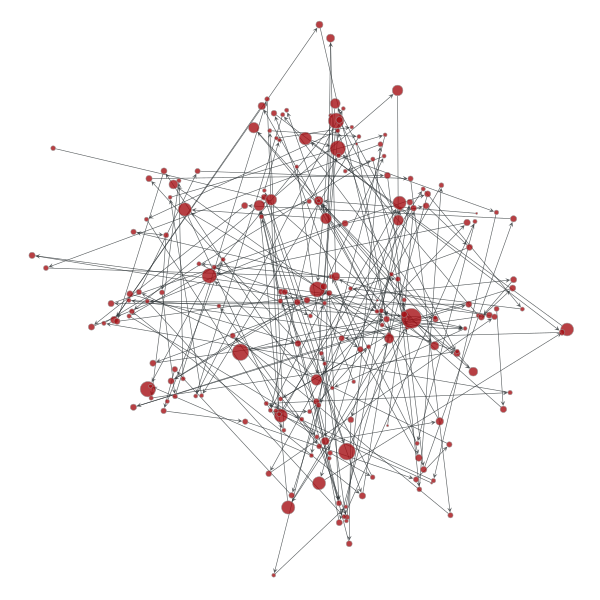
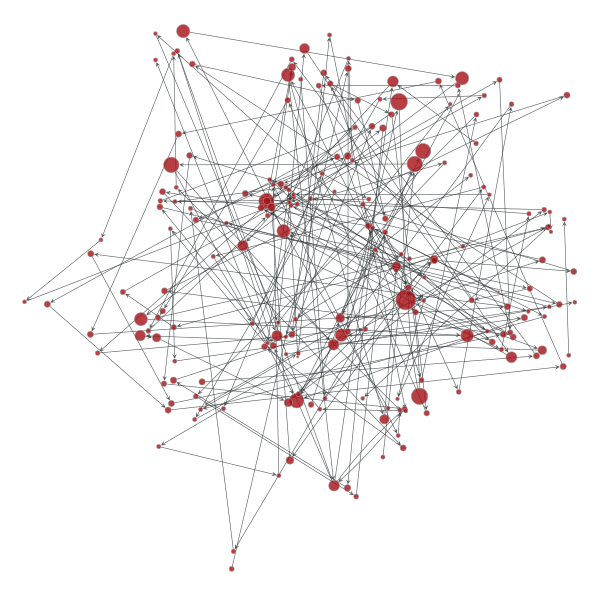
works now with wallet ids as node ids

diff --git a/Projekt/app/analysis.py b/Projekt/app/analysis.py
@@ -160,14 +160,39 @@ def get_user_incomes():
     res = cur.fetchall()
     cur.close()
 
-    income = {}
-    for row in res:
-        income[int(row[1])] = int(row[0])
-
-    return income
+    return res
 
 
-def get_transactions():
+def get_wallet_incomes():
+    """
+    Calculates sum of incoming money to users (wallets according to users table).
+
+    Returns
+    -------
+
+    """
+    cur = db.cursor()
+
+    query = """
+        select sum(ohne.satoshis) as satoshis, ohne.wallet as wallet
+        from (
+            select satoshis, wallet
+            from txoutput
+            except 
+            select o.satoshis, o.wallet
+            from txoutput o, txinput i
+            where (o.txid = i.txid and o.wallet = i.wallet)
+        ) ohne group by wallet order by satoshis desc;
+    """
+
+    cur.execute(query)
+    res = cur.fetchall()
+    cur.close()
+
+    return res
+
+
+def get_user_transactions():
     """
     Fetches transactions between users.
 
@@ -207,6 +232,43 @@ def get_transactions():
     return res
 
 
+def get_wallet_transactions():
+    """
+    Fetches transactions between users.
+
+    Returns
+    -------
+    res: array of tuples
+        Query result. It cointains
+            userid (from)
+            userid (to)
+            satoshis transferred
+            timestamp
+            transaction_id
+    """
+    cur = db.cursor()
+
+    query = """
+    select distinct i.wallet, outputs.wallet, outputs.satoshis, outputs.timest, outputs.txid
+    from (
+            select *
+            from txoutput
+            except 
+            select o.*
+            from txoutput o, txinput i
+            where (o.txid = i.txid and o.wallet = i.wallet)
+        ) outputs, txinput i
+    where i.txid = outputs.txid and i.wallet <> outputs.wallet;
+    """
+
+    cur.execute(query)
+    res = cur.fetchall()
+    cur.close()
+
+    return res
+
+
+
 def get_users():
     cur = db.cursor()
     cur.execute("""
@@ -231,14 +293,14 @@ if __name__ == '__main__':
 
     # Transactions between users
     print('Getting transactions between users..')
-    transactions = get_transactions()
+    transactions = get_user_transactions()
 
     print('Creating graph..')
     g = create_graph(incomes, transactions)
     print("Nodes: ", g.num_vertices())
     print("Edges: ", g.num_edges())
 
-    sat = np.array(list(incomes.values()))
+    sat = np.array([_[0] for _ in incomes])
 
     # Lowerbound on user incomes
     # calc_lower_bound(sat, 0.95)

diff --git a/Projekt/app/graph.py b/Projekt/app/graph.py
@@ -1,33 +1,29 @@
 import numpy as np
 from graph_tool.all import *
 
-g = Graph()
-v1 = g.add_vertex()
-v2 = g.add_vertex()
-e = g.add_edge(v1, v2)
-graph_draw(g, vertex_text=g.vertex_index, vertex_font_size=18, output_size=(200, 200), output="two-nodes.png")
-
 
 def create_graph(nodes, transactions):
     g = Graph()
+    node_map = {}  # mapping wallet ids to node ids
 
     # Add vertices with weights
     vertex_weight = g.new_vertex_property('int64_t', val=-1)
     vertex_size = g.new_vertex_property('double', val=0)
 
-    size_func = calc_sizes(list(nodes.values()))
+    size_func = calc_sizes([_[0] for _ in nodes])
 
     g.vp.vweight = vertex_weight  # Make property internal
     g.vp.vsize = vertex_size
 
-    max_id = max([int(row) for row in nodes.keys()])
+    g.add_vertex(len(nodes))
 
-    g.add_vertex(max_id + 1)
-
+    # Add weights and sizes to vertices
     for v in g.vertices():
+        index = g.vertex_index[v]
         try:
-            vertex_weight[v] = nodes[int(v)]
-            vertex_size[v] = size_func(nodes[int(v)])
+            vertex_weight[v] = nodes[index][0]
+            vertex_size[v] = size_func(vertex_weight[index])
+            node_map[nodes[index][1]] = index
         except KeyError:
             pass
 
@@ -35,7 +31,13 @@ def create_graph(nodes, transactions):
     edge_weight = g.new_edge_property('int64_t', val=-1)
     g.ep.eweight = edge_weight  # Make property internal
 
-    edges = [row[:3] for row in transactions]
+    edges = []
+    for row in transactions:
+        try:
+            edges.append((node_map[row[0]], node_map[row[1]], row[2]))
+        except KeyError as e:
+            print('Node der Transaktion nicht im Graphen: ', e.args)
+
     g.add_edge_list(edges, eprops=(edge_weight,))
 
     return g
